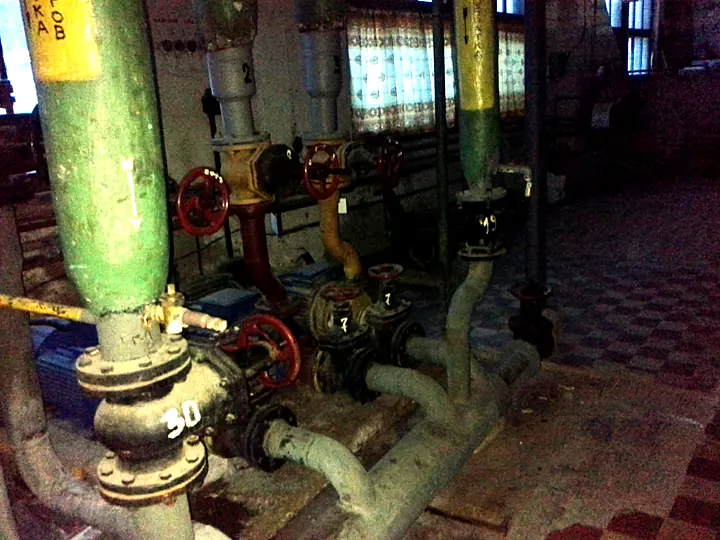
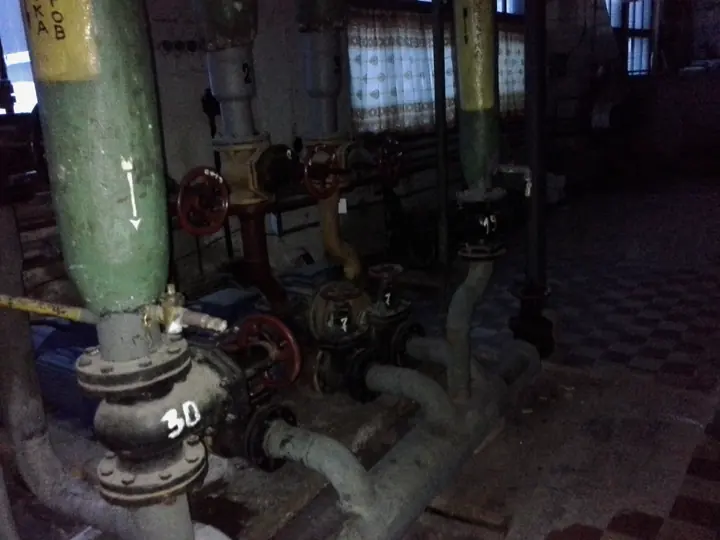
Правки по ревью: цифры, телефон в шапке, компактные карточки, контакты
Claude-Session: https://claude.ai/code/session_01LsGAFzNCjNFxtWAfjxgS3w

diff --git a/index.html b/index.html
@@ -32,6 +32,7 @@
       <a href="#contacts">Контакты</a>
     </nav>
     <a class="phone" href="tel:+74993221315">8 (499) 322-13-15</a>
+    <a class="phone-btn" href="tel:+74993221315" aria-label="Позвонить: 8 (499) 322-13-15"><svg viewBox="0 0 24 24" width="22" height="22" aria-hidden="true"><path fill="#fff" d="M6.6 10.8a15.1 15.1 0 0 0 6.6 6.6l2.2-2.2a1 1 0 0 1 1-.25 11.4 11.4 0 0 0 3.6.57 1 1 0 0 1 1 1V20a1 1 0 0 1-1 1A17 17 0 0 1 3 4a1 1 0 0 1 1-1h3.5a1 1 0 0 1 1 1c0 1.25.2 2.45.57 3.57a1 1 0 0 1-.25 1z"/></svg></a>
     <button class="burger" id="burger" aria-label="Открыть меню" aria-expanded="false" aria-controls="nav"><span></span><span></span><span></span></button>
   </div>
 </header>
@@ -49,17 +50,10 @@
         </div>
       </div>
       <dl class="hero__stats">
-        <div><dd>30</dd><dt>лет на рынке строительных услуг</dt></div>
         <div><dd>150<span>+</span></dd><dt>выполненных объектов</dt></div>
-        <div><dd>15<span>+</span></dd><dt>медицинских объектов под КТ, МРТ и рентген</dt></div>
+        <div><dd>15<span>+</span></dd><dt>медицинских объектов: КТ, МРТ, рентген</dt></div>
+        <div><dd class="dd-s">с 1996</dd><dt>года на рынке строительных услуг</dt></div>
       </dl>
-    </div>
-    <div class="wrap">
-      <table class="stamp" aria-label="Основные сведения">
-        <tr><th>Организация</th><td colspan="3">ООО «Строительная корпорация «Статус»</td></tr>
-        <tr><th>На рынке</th><td>с 1996 г.</td><th>ИНН</th><td>7723452354</td></tr>
-        <tr><th>Закупки</th><td>44-ФЗ, 223-ФЗ</td><th>ОГРН</th><td>1166313105970</td></tr>
-      </table>
     </div>
   </section>
 
@@ -73,8 +67,8 @@
         <li><b>1996</b><h3>Начало работы</h3><p>Техническое обслуживание жилых домов: отопление, вентиляция, инженерные сети.</p></li>
         <li><b>2016</b><h3>Первые подрядные объекты</h3><p>Ремонт зданий и помещений, кровель и инженерных систем.</p></li>
         <li><b>2017–2019</b><h3>Котельные и капремонт</h3><p>Реконструкция котельных и тепловых узлов, капитальный ремонт больниц.</p></li>
-        <li><b>2020–2021</b><h3>Рост объёмов</h3><p>40+ объектов за два года: вентилируемые фасады, капитальный ремонт зданий.</p></li>
-        <li><b>2022 — сегодня</b><h3>Медицина и крупные здания</h3><p>70+ объектов: помещения под КТ, МРТ и рентген, капитальный ремонт зданий.</p></li>
+        <li><b>2020–2021</b><h3>Фасады и капремонт зданий</h3><p>40+ объектов за два года: вентилируемые фасады, капитальный ремонт зданий.</p></li>
+        <li><b>2022–2026</b><h3>Медицина и крупные здания</h3><p>70+ объектов: помещения под КТ, МРТ и рентген, капитальный ремонт зданий.</p></li>
       </ol>
     </div>
   </section>
@@ -90,7 +84,7 @@
         <article><div class="svc__n">20</div><div class="svc__u">объектов</div><h3>Капитальный ремонт</h3><p>Здания целиком, общежития, подъезды и общее имущество многоквартирных домов.</p></article>
         <article><div class="svc__n">15<span>+</span></div><div class="svc__u">объектов</div><h3>Медицинские помещения</h3><p>Переоборудование под рентген, КТ и МРТ в действующих больницах.</p></article>
         <article><div class="svc__n">15<span>+</span></div><div class="svc__u">объектов</div><h3>Кровли и фасады</h3><p>Мягкие и металлические кровли, аварийный ремонт, вентилируемые фасады.</p></article>
-        <article><div class="svc__n">30</div><div class="svc__u">лет опыта</div><h3>Котельные и инженерия</h3><p>Котельные, тепловые узлы, отопление, вентиляция, подготовка к отопительному сезону.</p></article>
+        <article><div class="svc__n">14</div><div class="svc__u">объектов</div><h3>Котельные и инженерия</h3><p>Котельные, тепловые узлы, отопление, вентиляция, подготовка к отопительному сезону.</p></article>
         <article class="svc__cta"><h3>Под ключ</h3><p>Сверяем смету с фактическими объёмами, ведём исполнительную документацию, сдаём объект комиссии.</p><a class="btn" href="#contacts">Обсудить объект</a></article>
       </div>
     </div>
@@ -121,8 +115,9 @@
         <p class="kicker">Контакты</p>
         <h2>Обсудим ваш объект</h2>
         <p class="big"><a href="tel:+74993221315">8 (499) 322-13-15</a></p>
-        <p class="big big--s"><a href="mailto:Status-sk@mail.ru">Status-sk@mail.ru</a></p>
+        <p class="mail"><a href="mailto:Status-sk@mail.ru">Status-sk@mail.ru</a></p>
         <p class="addr">115193, г. Москва, ул. Сайкина, д. 11/2, ком. 12</p>
+        <a class="btn" href="tel:+74993221315">Позвонить</a>
       </div>
       <dl class="req">
         <div><dt>Наименование</dt><dd>ООО «Строительная корпорация «Статус»</dd></div>

diff --git a/assets/css/style.css b/assets/css/style.css
@@ -40,12 +40,13 @@ h1, h2, h3 { text-wrap: balance; }
 .nav a { color: var(--on-dark); text-decoration: none; font-size: 15px; }
 .nav a:hover { color: var(--signal); }
 .phone { color: #fff; font-weight: 600; text-decoration: none; white-space: nowrap; }
+.phone-btn { display: none; place-items: center; width: 44px; height: 44px; background: var(--signal); margin-left: auto; }
 .burger { display: none; background: none; border: 0; padding: 10px; cursor: pointer; }
 .burger span { display: block; width: 24px; height: 2px; margin: 5px 0; background: #fff; }
 
 /* Первый экран */
 .hero {
-  color: var(--on-dark); padding-block: 96px 56px;
+  color: var(--on-dark); padding-block: 104px;
   background-color: var(--graphite);
   background-image:
     linear-gradient(rgba(255, 255, 255, .045) 1px, transparent 1px),
@@ -54,7 +55,7 @@ h1, h2, h3 { text-wrap: balance; }
     linear-gradient(90deg, rgba(255, 255, 255, .02) 1px, transparent 1px);
   background-size: 120px 120px, 120px 120px, 24px 24px, 24px 24px;
 }
-.hero__in { display: grid; grid-template-columns: 1.35fr 1fr; gap: 64px; align-items: end; }
+.hero__in { display: grid; grid-template-columns: 1.3fr 1fr; gap: 64px; align-items: center; }
 .eyebrow { margin: 0 0 22px; font-size: 14px; font-weight: 600; letter-spacing: .14em; text-transform: uppercase; color: var(--signal); }
 h1 { margin: 0 0 26px; font: 700 clamp(36px, 5.6vw, 72px)/1.04 var(--f-display); color: #fff; letter-spacing: -.01em; }
 .lead { margin: 0 0 36px; max-width: 560px; font-size: 19px; line-height: 1.55; }
@@ -64,13 +65,11 @@ h1 { margin: 0 0 26px; font: 700 clamp(36px, 5.6vw, 72px)/1.04 var(--f-display);
 .btn--ghost { background: transparent; border-color: rgba(255, 255, 255, .4); }
 .btn--ghost:hover { background: rgba(255, 255, 255, .08); border-color: #fff; }
 .hero__stats { margin: 0; border-top: 1px solid rgba(255, 255, 255, .18); }
-.hero__stats > div { display: grid; grid-template-columns: minmax(0, 1fr) minmax(0, 1fr); align-items: baseline; gap: 20px; padding: 20px 0; border-bottom: 1px solid rgba(255, 255, 255, .18); }
+.hero__stats > div { display: grid; grid-template-columns: minmax(150px, auto) minmax(0, 1fr); align-items: center; gap: 24px; padding: 22px 0; border-bottom: 1px solid rgba(255, 255, 255, .18); }
 .hero__stats dd { margin: 0; font: 700 clamp(40px, 5vw, 64px)/1 var(--f-display); color: #fff; font-variant-numeric: tabular-nums; }
 .hero__stats dd span, .svc__n span { color: var(--signal); }
+.hero__stats .dd-s { font-size: clamp(28px, 3.4vw, 42px); }
 .hero__stats dt { font-size: 16px; line-height: 1.35; color: var(--on-dark-mute); }
-.stamp { margin-top: 64px; margin-left: auto; border-collapse: collapse; font-size: 13px; color: var(--on-dark); }
-.stamp th, .stamp td { border: 1px solid rgba(255, 255, 255, .35); padding: 7px 12px; text-align: left; font-weight: 400; }
-.stamp th { color: var(--on-dark-mute); font-size: 12px; text-transform: uppercase; letter-spacing: .06em; white-space: nowrap; }
 
 /* Секции */
 .sec { padding-block: 104px; }
@@ -124,10 +123,12 @@ h2 { margin: 0; max-width: 760px; font: 700 clamp(28px, 3.4vw, 44px)/1.12 var(--
 
 /* Контакты */
 .big { margin: 32px 0 6px; font: 700 clamp(26px, 3vw, 36px)/1.2 var(--f-display); }
-.big--s { margin-top: 0; font-size: clamp(18px, 2vw, 22px); }
+.mail { margin: 0 0 4px; font-size: 20px; }
+.mail a { color: #fff; }
+.mail a:hover { color: var(--signal); }
 .big a { color: #fff; text-decoration: none; }
 .big a:hover { color: var(--signal); }
-.addr { margin: 18px 0 0; color: var(--on-dark-mute); }
+.addr { margin: 14px 0 28px; color: var(--on-dark-mute); }
 .req { margin: 0; border-top: 1px solid rgba(255, 255, 255, .25); }
 .req > div { display: grid; grid-template-columns: 190px minmax(0, 1fr); gap: 16px; padding: 14px 0; border-bottom: 1px solid rgba(255, 255, 255, .25); font-size: 16px; }
 .req dt { color: var(--on-dark-mute); }
@@ -144,8 +145,7 @@ h2 { margin: 0; max-width: 760px; font: 700 clamp(28px, 3.4vw, 44px)/1.12 var(--
   .burger { display: block; }
   .phone { margin-left: auto; }
   .hero__in, .grid2 { grid-template-columns: 1fr; gap: 40px; }
-  .stamp { margin-left: 0; }
-  .timeline { grid-template-columns: 1fr; border-top: 0; border-left: 3px solid var(--ink); margin-left: 6px; }
+    .timeline { grid-template-columns: 1fr; border-top: 0; border-left: 3px solid var(--ink); margin-left: 6px; }
   .timeline li { padding: 0 0 32px 28px; }
   .timeline li::before { top: 6px; left: -9px; }
   .timeline li:last-child::before { top: 4px; left: -12px; }
@@ -162,10 +162,22 @@ h2 { margin: 0; max-width: 760px; font: 700 clamp(28px, 3.4vw, 44px)/1.12 var(--
   .hero { padding-block: 56px 40px; }
   .lead { font-size: 17px; }
   .logo__txt small, .phone { display: none; }
-  .burger { margin-left: auto; }
-  .stamp { width: 100%; font-size: 12px; }
-  .stamp th, .stamp td { padding: 6px 8px; }
-  .svc, .gal, .ba { grid-template-columns: 1fr; }
+  .phone-btn { display: grid; }
+  .burger { margin-left: 8px; }
+  .hero__stats > div { grid-template-columns: minmax(110px, auto) minmax(0, 1fr); gap: 16px; padding: 16px 0; }
+  .svc { grid-template-columns: 1fr; }
+  .svc article { display: grid; grid-template-columns: 84px minmax(0, 1fr); column-gap: 16px; row-gap: 2px; padding: 20px 18px; }
+  .svc__n { grid-row: span 3; font-size: 36px; }
+  .svc__u { order: 3; }
+  .svc h3 { margin: 0; order: 1; }
+  .svc p { order: 2; }
+  .svc .svc__cta { display: flex; }
+  .svc__cta .btn { order: 4; }
+      .gal { grid-template-columns: 1fr 1fr; gap: 10px; }
+  .g, .g--wide { grid-column: span 1; }
+  .g span { font-size: 12px; padding: 6px 10px; }
+  .ba { grid-template-columns: 1fr 1fr; gap: 10px; }
+  .ba figcaption { font-size: 12px; padding: 5px 12px; }
   .req > div { grid-template-columns: 1fr; gap: 2px; }
 }
 @media (prefers-reduced-motion: reduce) { html { scroll-behavior: auto; } * { transition: none !important; } }
